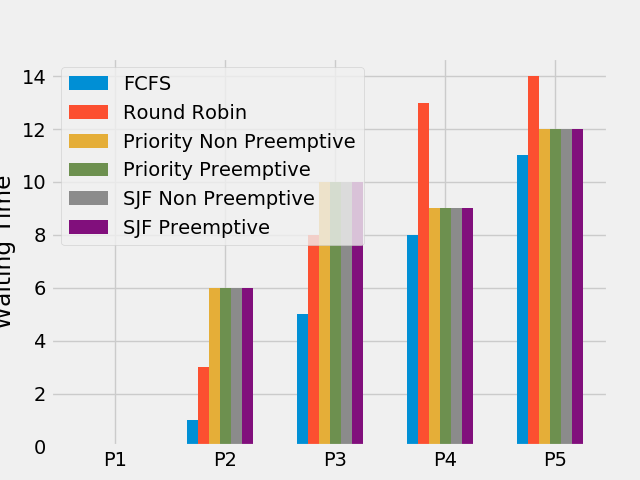
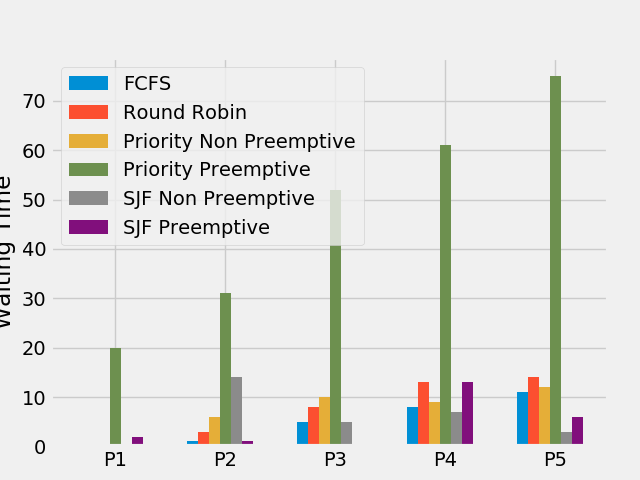
everything except priority p

diff --git a/src/PRIORITY_NP.py b/src/PRIORITY_NP.py
@@ -5,7 +5,7 @@ plt.style.use('fivethirtyeight')
 
 def get_wt_time( wt, proc, totalprocess):  
   
-    service = [0] * 5
+    service = [0] * totalprocess
   
     service[0] = 0
     wt[0] = 0
@@ -24,21 +24,16 @@ def get_tat_time(tat, wt, proc, totalprocess):
   
 def findgc(proc, totalprocess): 
       
-    wt = [0] * 5
-    tat = [0] * 5
-  
+    wt = [0] * totalprocess
+    tat = [0] * totalprocess
     wavg = 0
     tavg = 0
-  
     get_wt_time(wt,proc, totalprocess)  
-      
     get_tat_time(tat, wt, proc, totalprocess)  
-  
-    stime = [0] * 5
-    ctime = [0] * 5
+    stime = [0] * totalprocess
+    ctime = [0] * totalprocess
     stime[0] = 1
     ctime[0] = stime[0] + tat[0] 
-      
     for i in range(1, totalprocess):  
         stime[i] = ctime[i - 1]  
         ctime[i] = stime[i] + tat[i] - wt[i]  
@@ -46,31 +41,32 @@ def findgc(proc, totalprocess):
     for i in range(totalprocess): 
         wavg += wt[i]  
         tavg += tat[i]  
-          
+
     return wt, tat,ctime
+
 
 def print_details(processes,proc,arrival_time,ctime,tat,wt):
      
     print("Process_no\tStart_time\tComplete_time", 
-               "\tTurn_Around_Time\tWaiting_Time") 
+               "\tTurn_Around_Time\tWaiting_Time\t\tPriority") 
   
     for i in range(len(processes)):
         print(proc[i][3], "\t\t", arrival_time[i],  
                          "\t\t", end = " ") 
-        print(ctime[i], "\t\t", tat[i], "\t\t\t", wt[i])  
+        print(ctime[i], "\t\t", tat[i], "\t\t\t", wt[i],'\t\t\t',proc[i][2])  
   
     print("Average waiting time is : ", end = " ") 
     print(sum(wt) / len(processes)) 
     print("average turnaround time : " , end = " ") 
     print(sum(tat) / len(processes)) 
   
-    return wt , tat 
 
+def plot_graph(processes,wt,tat,ctime):
 
-def plot_graph(processes,wt,tat):
+    plt.plot(processes, wt,label='Waiting Time')
+    plt.plot(processes, tat, label = 'TurnAround Time')
+    plt.plot(processes, ctime, label = 'Completion Time')
 
-    plt.plot(processes, wt, '-',label='Waiting Time')
-    plt.plot(processes, tat, '--',label = 'TurnAround Time')
     plt.legend(loc='best')
     plt.savefig('./output/PRIORITY_NP_output.png')
     plt.show()
@@ -94,28 +90,27 @@ def priority_np():
             priority.append(int(prior)) 
     
 
-    totalprocess = 5
+    totalprocess = len(processes)
     proc = []
-    for i in range(5): 
+    for i in range(totalprocess): 
         l = [] 
         for j in range(4): 
             l.append(0) 
         proc.append(l) 
     
     
-    for i in range(5):
+    for i in range(totalprocess):
         proc[i][0] = arrival_time[i]
         proc[i][1] = burst_time[i]
         proc[i][2] = priority[i]
-        proc[i][3] = [i+1]
+        proc[i][3] = processes[i]
 
     proc = sorted (proc, key = lambda x:x[2]) 
     proc = sorted (proc) 
-      
     wt, tat,ctime = findgc(proc,totalprocess) 
     print_details(processes,proc,arrival_time,ctime,tat,wt)
-
-    plot_graph(processes,wt,tat)
+    plot_graph(processes,wt,tat,ctime)
+    plt.close(fig='all')
     
 
 

diff --git a/src/CompareAll.py b/src/CompareAll.py
@@ -106,9 +106,9 @@ def compare():
     plt.bar(x-0.3, f_waiting, width = 0.1,label = "FCFS")
     plt.bar(x - 0.2, r_waiting, width = 0.1,label = "Round Robin" )
     plt.bar(x-0.1,np_waiting,width=0.1,label = "Priority Non Preemptive")
-    plt.bar(x,np_waiting,width=0.1,label = "Priority Preemptive")   
-    plt.bar(x+0.1,np_waiting,width=0.1,label = "SJF Non Preemptive",) 
-    plt.bar(x+0.2,np_waiting,width=0.1,label = "SJF Preemptive")   
+    plt.bar(x,pp_waiting,width=0.1,label = "Priority Preemptive")   
+    plt.bar(x+0.1,sn_waiting,width=0.1,label = "SJF Non Preemptive",) 
+    plt.bar(x+0.2,sp_waiting,width=0.1,label = "SJF Preemptive")   
     plt.xticks(x,processes)
     plt.ylabel("Waiting Time")
     plt.legend()

diff --git a/src/SJF_P.py b/src/SJF_P.py
@@ -82,7 +82,7 @@ def  plot_graph(processes,waiting_time,compl_time,turn_around_time):
     plt.xlabel("Processes")
     plt.ylabel("Time Units")
     plt.legend()
-    plt.savefig('./output/FCFS_output.png')
+    plt.savefig('./output/SJF_P_output.png')
     plt.show()
 
 

diff --git a/src/ROUND_ROBIN.py b/src/ROUND_ROBIN.py
@@ -119,7 +119,6 @@ def round_robin():
     plt.savefig("./output/ROUND_ROBIN.png")
     plt.show()
     plt.close(fig='all')
-    input()
 
 # Driver code  
 if __name__ =="__main__": 
